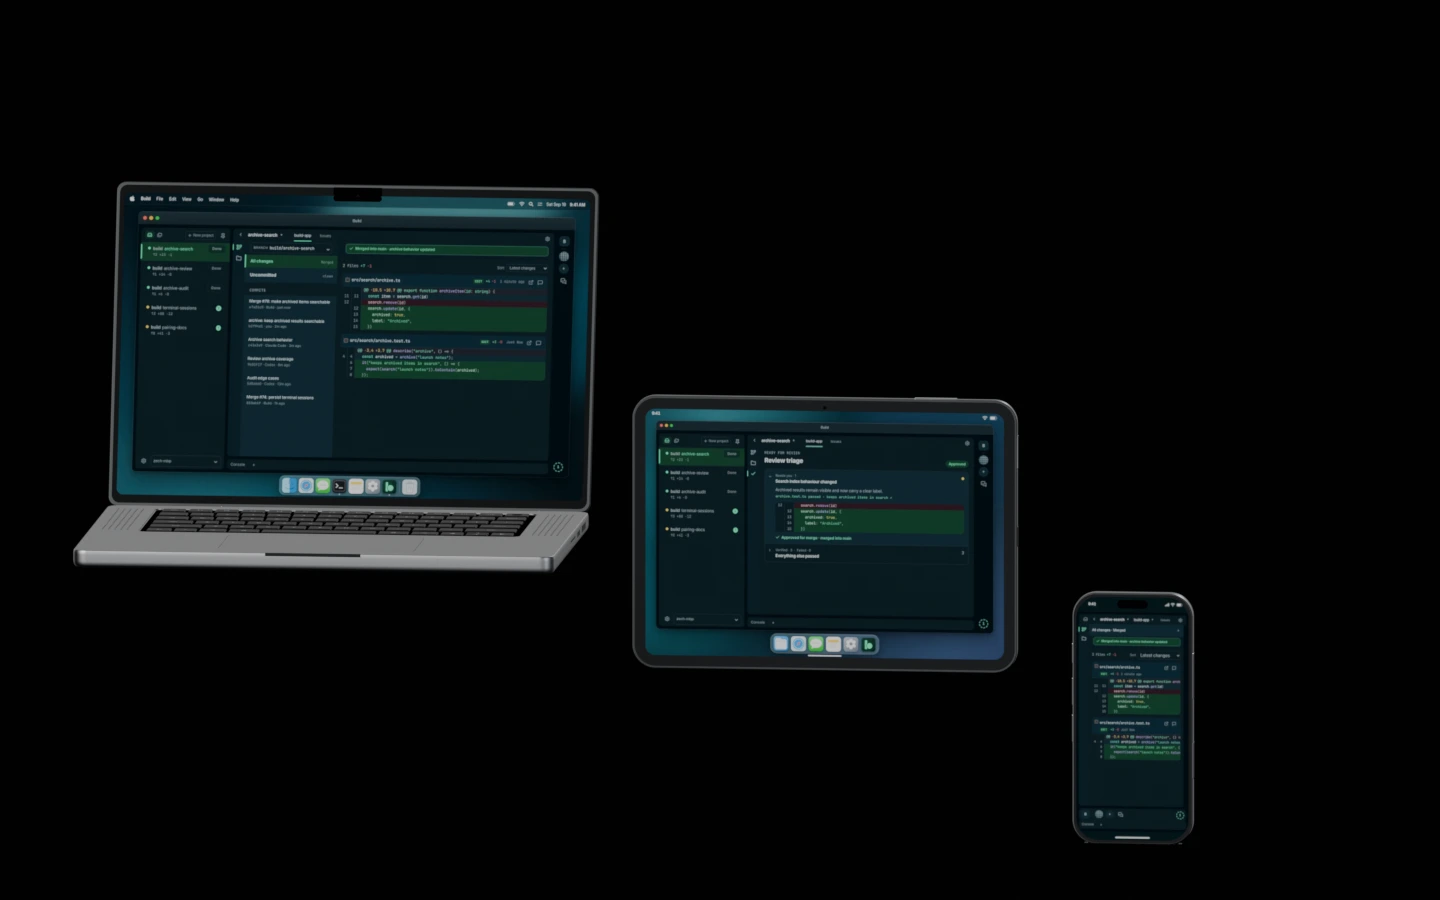
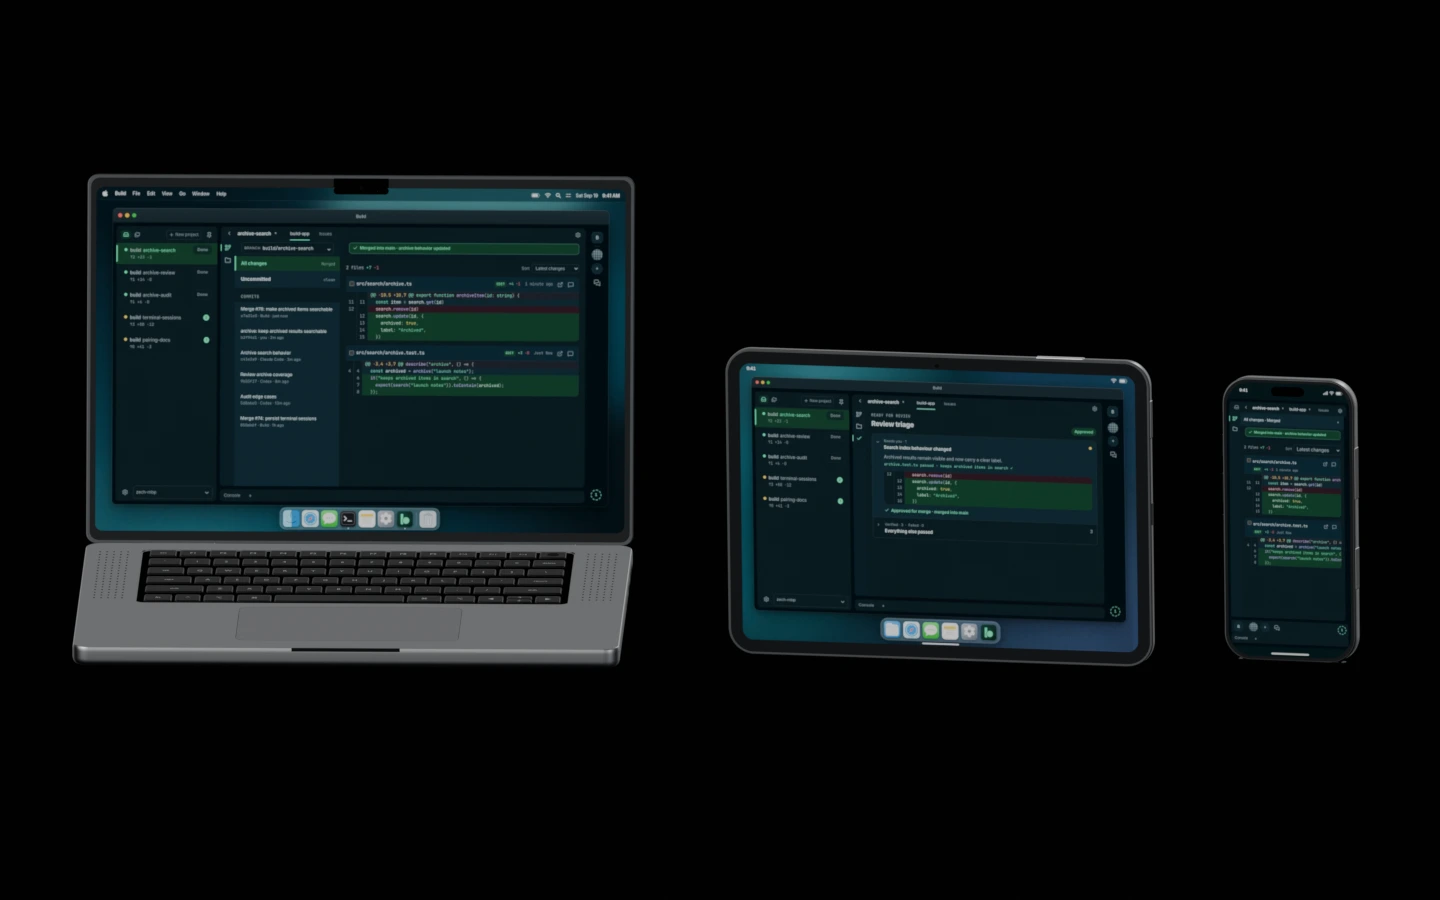
Render act 8 stills as a spaced physical-scale lineup (#146)

Changed region(s): [[0.0312, 0.1867, 0.9688, 0.9644]]

diff --git a/design/landing/build_device_assets.py b/design/landing/build_device_assets.py
@@ -66,7 +66,7 @@ def parse_args():
     parser.add_argument("--phone-screen", type=Path, default=DEFAULT_PHONE_SCREEN)
     parser.add_argument("--preview-dir", type=Path)
     parser.add_argument(
-        "--render-only", choices=("posters", "cutouts", "social", "all"),
+        "--render-only", choices=("posters", "closing", "cutouts", "social", "all"),
         help="render from the checked-in Blender source without rebuilding or exporting geometry",
     )
     parser.add_argument(
@@ -1242,6 +1242,16 @@ def render_only(group):
         "tablet": SCREENS_DIR / "ui05-merged-ipad.webp",
         "phone": SCREENS_DIR / "ui03-answer-iphone.webp",
     }
+    if group == "closing":
+        paths = render_closing_posters(collections, mats)
+        fixtures = {
+            "laptop": SCREENS_DIR / "ui05-merged-macbook.webp",
+            "tablet": SCREENS_DIR / "ui05-merged-ipad.webp",
+            "phone": SCREENS_DIR / "ui05-merged-iphone.webp",
+        }
+        update_render_metadata(paths, {path.stem: fixtures for path in paths})
+        print(f"Rendered closing assets from {BLEND_PATH}")
+        return
     groups = ("posters", "cutouts", "social") if group == "all" else (group,)
     paths = []
     fixture_map = {}
@@ -1373,6 +1383,39 @@ def image_info(path):
     return info
 
 
+def render_closing_posters(collections, mats):
+    """Render the physically scaled Act 8 lineup for both aspect ratios."""
+    laptop, tablet, phone = (collections[name] for name in ("laptop", "tablet", "phone"))
+    for material, fixture in (
+        ("desktop_screen", "ui05-merged-macbook.webp"),
+        ("tablet_screen", "ui05-merged-ipad.webp"),
+        ("phone_screen", "ui05-merged-iphone.webp"),
+    ):
+        set_screen_texture(mats[material], SCREENS_DIR / fixture)
+    states = (
+        (laptop, transform_collection(laptop, (0, -1.0, 1.12), offset=(-1.25, 0, -0.20), scale=0.62,
+                                      rotation=(math.radians(8), 0, math.radians(4)))),
+        (tablet, transform_collection(tablet, (0, 0, 0), offset=(0.73, 0.05, 0.50), scale=0.62,
+                                      rotation=(math.radians(3), 0, math.radians(-8)))),
+        (phone, transform_collection(phone, (0, 0, 0), offset=(2.00, -0.14, 0.50), scale=0.62,
+                                    rotation=(math.radians(2), 0, math.radians(-10)))),
+    )
+    set_visible_collections(laptop, tablet, phone)
+    desktop = OUTPUT_DIR / "scene-08-desktop.webp"
+    mobile = OUTPUT_DIR / "scene-08-mobile.webp"
+    try:
+        render(desktop, 1440, 900, (0.70, -7.0, 1.65), (0, -0.45, 0.76), 60, False, ortho_scale=5.0)
+        render(mobile, 720, 960, (1.0, -7.2, 2.12), (0.1, -0.45, 0.87), 60, False, ortho_scale=5.1)
+    finally:
+        for collection, state in states:
+            restore_matrices(collection, state)
+    desktop_alias = OUTPUT_DIR / "desktop-poster.webp"
+    mobile_alias = OUTPUT_DIR / "mobile-poster.webp"
+    shutil.copyfile(desktop, desktop_alias)
+    shutil.copyfile(mobile, mobile_alias)
+    return [desktop, mobile, desktop_alias, mobile_alias]
+
+
 def render_scene_posters(collections, mats, default_screens):
     laptop, tablet, phone = collections["laptop"], collections["tablet"], collections["phone"]
     scenes = [
@@ -1437,32 +1480,14 @@ def render_scene_posters(collections, mats, default_screens):
             restore_matrices(laptop, laptop_state)
             restore_matrices(tablet, tablet_state)
         else:
-            laptop_state = transform_collection(laptop, (0, -1.0, 1.12), offset=(-1.15, 0, 0), scale=0.62)
-            tablet_state = transform_collection(tablet, (0, 0, 0), offset=(0.72, 0.05, 0.36), scale=0.62)
-            phone_state = transform_collection(phone, (0, 0, 0), offset=(1.98, -0.14, -0.34), scale=0.62)
-            set_visible_collections(laptop, tablet, phone)
-            render(desktop_path, 1440, 900, (1.05, -7.0, 1.65), (0.35, -0.45, 0.76), 60, False, ortho_scale=5.0)
-            restore_matrices(laptop, laptop_state)
-            restore_matrices(tablet, tablet_state)
-            restore_matrices(phone, phone_state)
-            # Keep the same physical scale and all three devices on mobile.
-            laptop_state = transform_collection(laptop, (0, -1.0, 1.12), offset=(-0.72, 0, 0.15), scale=0.62)
-            tablet_state = transform_collection(tablet, (0, 0, 0), offset=(0.48, 0.05, -0.52), scale=0.62)
-            phone_state = transform_collection(phone, (0, 0, 0), offset=(1.12, -0.14, -0.77), scale=0.62)
-            set_visible_collections(laptop, tablet, phone)
-            render(mobile_path, 720, 960, (1.0, -7.2, 1.8), (0.1, -0.45, 0.45), 60, False, ortho_scale=5.1)
-            restore_matrices(laptop, laptop_state)
-            restore_matrices(tablet, tablet_state)
-            restore_matrices(phone, phone_state)
+            render_paths.extend(render_closing_posters(collections, mats))
+            continue
 
         render_paths.extend([desktop_path, mobile_path])
 
     set_screen_texture(mats["desktop_screen"], default_screens["laptop"])
     set_screen_texture(mats["tablet_screen"], default_screens["tablet"])
     set_screen_texture(mats["phone_screen"], default_screens["phone"])
-    shutil.copyfile(OUTPUT_DIR / "scene-08-desktop.webp", OUTPUT_DIR / "desktop-poster.webp")
-    shutil.copyfile(OUTPUT_DIR / "scene-08-mobile.webp", OUTPUT_DIR / "mobile-poster.webp")
-    render_paths.extend([OUTPUT_DIR / "desktop-poster.webp", OUTPUT_DIR / "mobile-poster.webp"])
     return render_paths
 
 

diff --git a/design/landing/README.md b/design/landing/README.md
@@ -46,6 +46,10 @@ blender --background design/landing/build-devices.blend \
 bounds, hashes, and screen provenance in `assets/devices/metadata.json`; it does not write the
 GLBs, `device-contract.js`, or `build-devices.blend`.
 
+Use `--render-only closing` to update only Act 8's desktop and mobile stills and their
+byte-identical poster aliases. It keeps the source Blender file, models, and other scenes
+untouched while updating those four metadata records.
+
 The cutout group includes `hero-laptop` and the tablet/phone `mobile-hero` composition as well
 as the three individual devices. The complete document set has 25 render records, including
 the two closing aliases and the PNG social preview. `hero-entrance.webp` is separate: it is
@@ -67,7 +71,7 @@ GLBs use meters, +Y up, +Z forward, and +X right. Every GLB has one replaceable 
 
 Transparent object cutouts are `hero-laptop.webp`, `mobile-hero.webp`, `laptop.webp`, `tablet.webp`, and `phone.webp`. The document cutouts show `ui10-editor` on the laptop, `ui05-merged` on the tablet, and `ui03-answer` on the phone. Black-background fallbacks are emitted as eight responsive pairs named `scene-01-desktop.webp` through `scene-08-desktop.webp` with matching mobile files. The closing aliases `desktop-poster.webp` and `mobile-poster.webp` are byte-identical copies of scene 08. `social-preview.webp` and `assets/social-preview.png` are matching 1200×630 sharing compositions with the editor laptop and “Your agents. Your machine. Your call.” headline.
 
-Scene 1 uses a low front camera to show the keyboard depth and fully open display; the live hero adds only 4° of pitch. Its independent runtime entrance starts at least three-quarters open and settles to 105° while the base remains planted. The rendered fallback remains fully open. Phone and tablet entrances use a brief pivot and then settle without idle rotation. Poster cameras expand their framing when needed to leave a 5% margin around the complete hardware. Scene 8 uses one world scale for all three devices on desktop and mobile so the 312.6 mm laptop, 249.7 mm tablet, and 78 mm phone remain physically proportional.
+Scene 1 uses a low front camera to show the keyboard depth and fully open display; the live hero adds only 4° of pitch. Its independent runtime entrance starts at least three-quarters open and settles to 105° while the base remains planted. The rendered fallback remains fully open. Phone and tablet entrances use a brief pivot and then settle without idle rotation. Poster cameras expand their framing when needed to leave a 5% margin around the complete hardware. Scene 8 places all three devices in one horizontal row on desktop and mobile, with clear gaps and a shared world scale so the 312.6 mm laptop, 249.7 mm tablet, and 78 mm phone remain physically proportional. The stills contain no embedded closing copy.
 
 The generated set depicts a 2025 14-inch MacBook Pro M5, 11-inch iPad Pro M5, and iPhone 17 Pro Max. Enclosure shells use outward-facing geometry. The iPad body and screen use concentric 15.05 mm and 6.6 mm corner contours across the roughly 8.5 mm bezel. Aluminum body materials use metallic 1.0 with no clearcoat, leaving the dark-strip studio environment to describe their shape. The proportions, black glass, camera details, controls, and ports follow the reference study in `device-references.md`. The geometry is original, with no third-party models or Apple marks.
 
